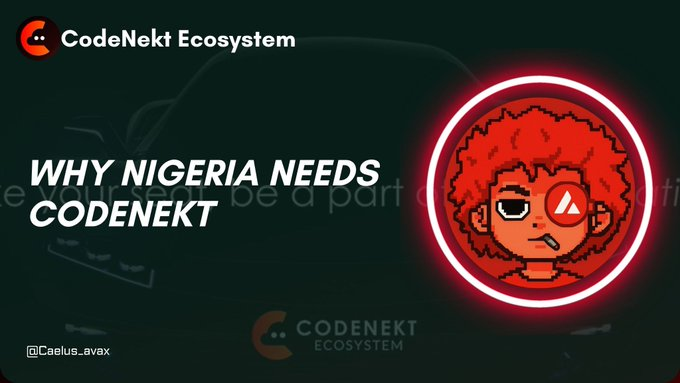
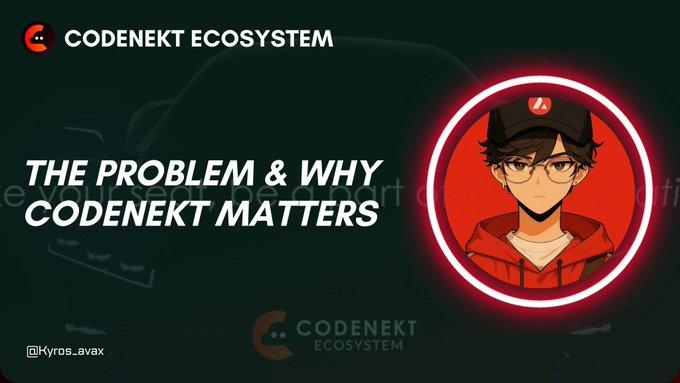
nfnfn

diff --git a/index.html b/index.html
@@ -939,7 +939,7 @@ I build fast, responsive, visually stunning websites using modern tech, deliveri
                   <img src="./assets/images/Why Nigeria Needs CodeNekt.jpeg" alt="dsm." loading="lazy">
                 </figure>
 
-                <h3 class="project-title">Why Nigeria Needs CodeNekt</h3>
+                <h3 class="project-title">The Problem & Why CodeNekt Matters</h3>
 
               </a>
             </li>
